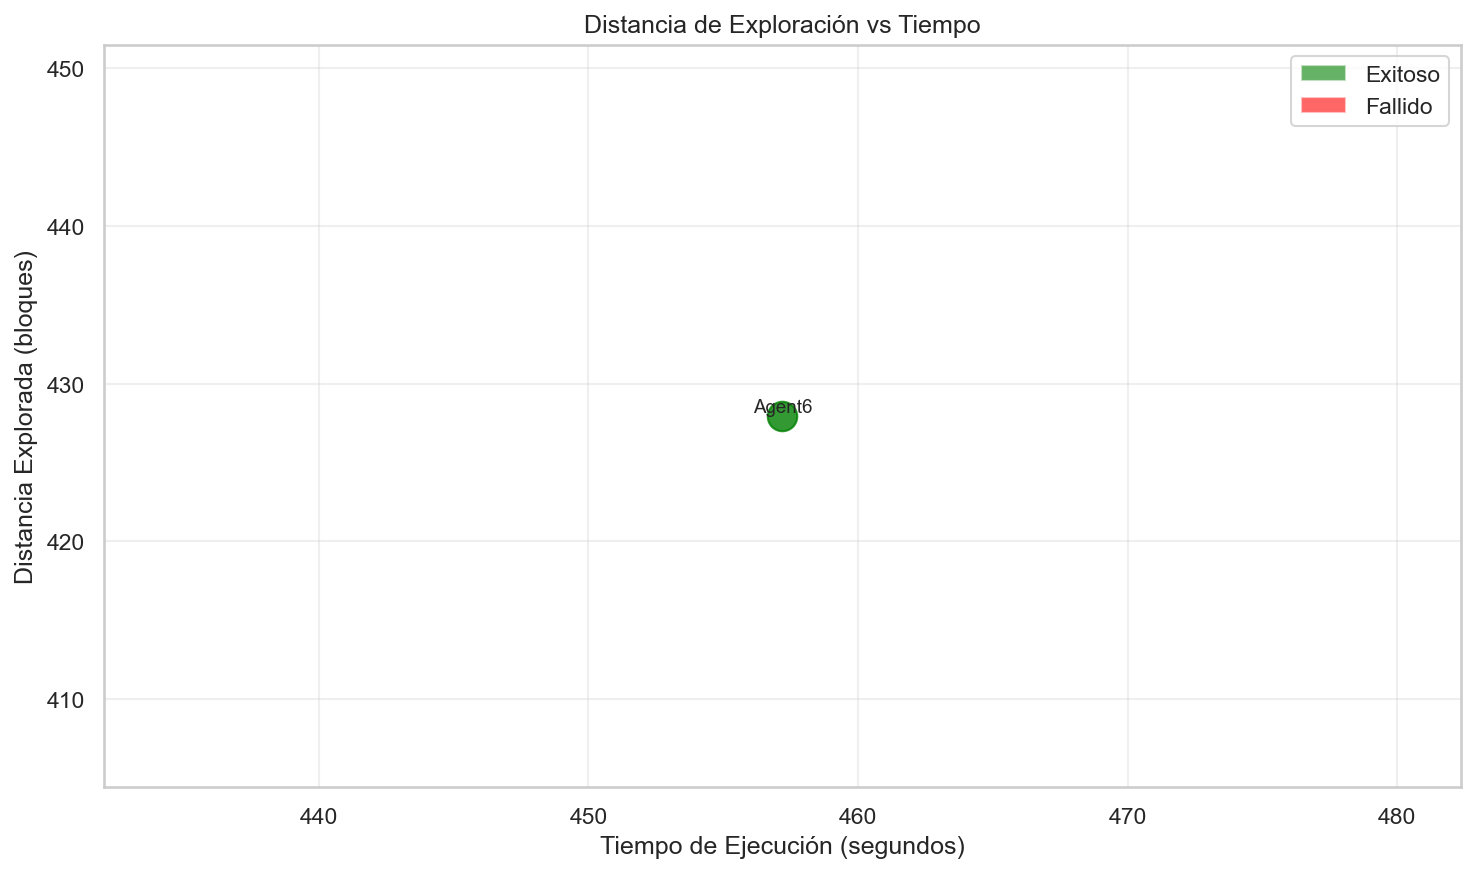
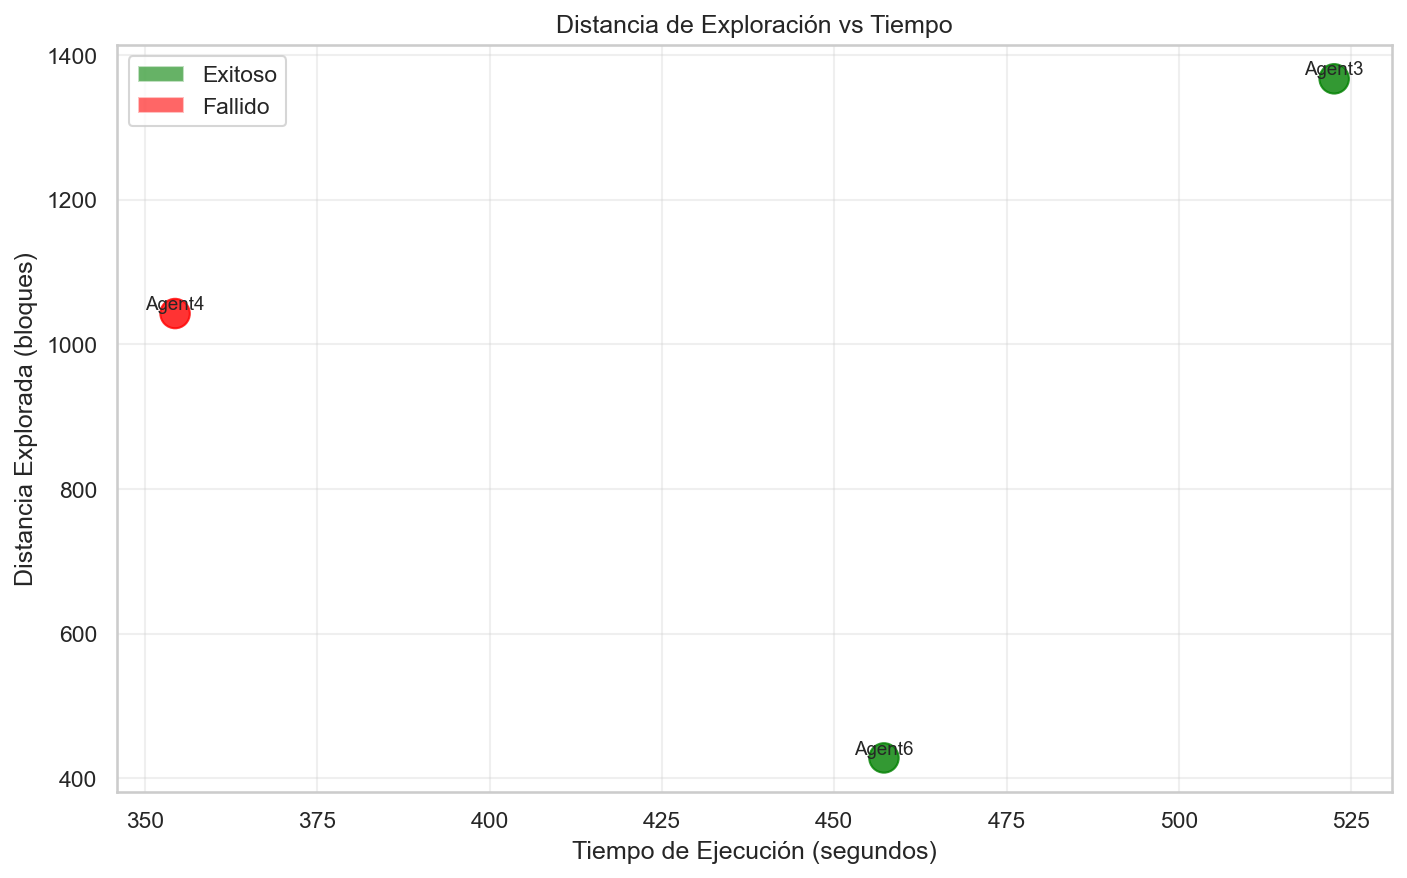
feat: implementacion de iconos personalizados en matplotlib

diff --git a/src/evaluation/htn_evaluation.py b/src/evaluation/htn_evaluation.py
@@ -3,13 +3,109 @@
 Script simple para analizar métricas de agentes HTN
 """
 
+'''
+Para los iconos y otros elementos de minecraft mirar: https://mcicons.ccleaf.com/
+'''
+
 import json
 import os
 from pathlib import Path
 import matplotlib.pyplot as plt
+from matplotlib.offsetbox import OffsetImage, AnnotationBbox  # Para imágenes en gráficas 
+import numpy as np  # Para arrays
+from PIL import Image  # Para redimensionar iconos
 import seaborn as sns
 from datetime import datetime
-import pandas as pd
+import os
+from matplotlib.patches import Patch
+
+# Variable global para cachear si los iconos están disponibles
+_icons_checked = False
+_icons_available = False
+_icon_cache = {}  # Cache de iconos ya cargados y optimizados
+
+def load_and_optimize_icon(icon_path, target_size=512):
+    """Carga una imagen PNG, la redimensiona si es muy grande, y la convierte a array numpy"""
+    try:
+        # Verificar si ya está en cache
+        if icon_path in _icon_cache:
+            return _icon_cache[icon_path]
+        
+        # Cargar imagen con PIL
+        img = Image.open(icon_path)
+        
+        # Si es muy grande, redimensionar manteniendo aspecto
+        if img.width > target_size or img.height > target_size:
+            img.thumbnail((target_size, target_size), Image.Resampling.LANCZOS)
+        
+        # Convertir a array numpy que matplotlib entiende
+        img_array = np.array(img)
+        
+        # Guardar en cache
+        _icon_cache[icon_path] = img_array
+        
+        return img_array
+    except Exception as e:
+        print(f"[ERROR] No se pudo cargar icono {icon_path}: {e}")
+        return None
+
+def setup_icons_dir(icons_dir='src/evaluation/icons/'):
+    """Configura el directorio de iconos y avisa al usuario si no existen"""
+    global _icons_checked, _icons_available
+    
+    if _icons_checked:
+        return _icons_available
+    
+    _icons_checked = True
+    icons_path = Path(icons_dir)
+    
+    if not icons_path.exists():
+        print(f"\n[AVISO] Directorio de iconos no encontrado: {icons_dir}")
+        print("Para descargar los iconos de Minecraft:")
+        print("  1. Visita: https://mcicons.ccleaf.com/")
+        print(f"  2. Descarga los iconos en: {icons_dir}/")
+        print("  3. Las gráficas funcionarán sin iconos pero con mejor aspecto con ellos\n")
+        return False
+    
+    # Verificar si hay algún PNG en el directorio
+    png_files = list(icons_path.glob('*.png'))
+    _icons_available = len(png_files) > 0
+    
+    if not _icons_available:
+        print(f"\n[AVISO] No se encontraron archivos PNG en {icons_dir}")
+        print("Las gráficas funcionarán sin iconos\n")
+    
+    return _icons_available
+
+def get_minecraft_icon(action_name, icons_dir='src/evaluation/icons/'):
+    """Mapea nombre de acción a archivo PNG de Minecraft y lo optimiza"""
+    mapping = {
+        "Madera": "Oak_Log.png",      # Tronco de roble
+        "Tablones": "Oak_Planks.png", # Tablones de roble
+        "Palos": "Stick.png",
+        "Asegurar Mesa": "Crafting_Table.png",  # Crafting table
+        "Pico Madera": "Wooden_Pickaxe.png",
+        "Piedra Total": "Cobblestone.png",  # Piedra/cobblestone
+        "Pico Piedra": "Stone_Pickaxe.png",
+        "Carbón": "Coal.png",
+        "Hierro": "Raw_Iron.png",
+        "Craftear Horno": "Furnace.png",  # Preview horno
+        "Colocar Horno": "Furnace.png",
+        "Lingote de Hierro": "Iron_Ingot.png",
+        "Pico de Hierro": "Iron_Pickaxe.png"
+    }
+    
+    if not _icons_available:
+        return None
+    
+    filename = mapping.get(action_name, "Cancel.png")  # Default
+    path = os.path.join(icons_dir, filename)
+    
+    if os.path.exists(path):
+        return load_and_optimize_icon(path, target_size=80)
+    return None
+
+
 
 # Configurar estilo de gráficas
 sns.set_theme(style="whitegrid")
@@ -56,76 +152,69 @@ def analyze_basic_stats(metrics):
     print(f"   Mínima: {min(distances):.2f} bloques")
     print(f"   Máxima: {max(distances):.2f} bloques")
 
-def plot_execution_times(metrics):
-    """Gráfica de tiempos de ejecución"""
-    fig, (ax1, ax2) = plt.subplots(1, 2, figsize=(14, 5))
-    
-    # Gráfica 1: Tiempo por agente
-    agents = [m['agent_name'] for m in metrics]
-    times = [m['time_elapsed_s'] for m in metrics]
-    colors = ['green' if m['success'] else 'red' for m in metrics]
-    
-    ax1.bar(agents, times, color=colors, alpha=0.7)
-    ax1.set_xlabel('Agente')
-    ax1.set_ylabel('Tiempo (segundos)')
-    ax1.set_title('Tiempo de Ejecución por Agente')
-    ax1.tick_params(axis='x', rotation=45)
-    
-    # Leyenda
-    from matplotlib.patches import Patch
-    legend_elements = [
-        Patch(facecolor='green', alpha=0.7, label='Exitoso'),
-        Patch(facecolor='red', alpha=0.7, label='Fallido')
-    ]
-    ax1.legend(handles=legend_elements)
-    
-    # Gráfica 2: Box plot de tiempos exitosos vs fallidos
-    success_times = [m['time_elapsed_s'] for m in metrics if m['success']]
-    fail_times = [m['time_elapsed_s'] for m in metrics if not m['success']]
-    
-    data_to_plot = []
-    labels = []
-    if success_times:
-        data_to_plot.append(success_times)
-        labels.append(f'Exitoso\n(n={len(success_times)})')
-    if fail_times:
-        data_to_plot.append(fail_times)
-        labels.append(f'Fallido\n(n={len(fail_times)})')
-    
-    if data_to_plot:
-        bp = ax2.boxplot(data_to_plot, labels=labels, patch_artist=True)
-        colors = ['lightgreen', 'lightcoral']
-        for patch, color in zip(bp['boxes'], colors[:len(bp['boxes'])]):
-            patch.set_facecolor(color)
-        ax2.set_ylabel('Tiempo (segundos)')
-        ax2.set_title('Distribución de Tiempos')
-    
-    plt.tight_layout()
-    return fig
-
 def plot_action_timeline(metrics):
-    """Timeline de acciones"""
-    fig, ax = plt.subplots(figsize=(14, 8))
+    fig, ax = plt.subplots(figsize=(15, 8)) 
+    max_time = 0
     
+    # Parámetros para el control de solapamiento
+    TIME_THRESHOLD = 15  # Segundos mínimos para considerar que hay solapamiento
+    OFFSET_VALUE = 0.25  # Cuánto se desplaza el icono verticalmente (0.25 de la unidad del eje Y)
+
     for idx, m in enumerate(metrics):
         agent = m['agent_name']
         start = datetime.fromisoformat(m['start_time'].replace('Z', '+00:00'))
         
+        # Guardamos los tiempos de las acciones ya colocadas para este agente
+        placed_times = []
+        
         for action in m['actions']:
             action_time = datetime.fromisoformat(action['timestamp'].replace('Z', '+00:00'))
             elapsed = (action_time - start).total_seconds()
-            ax.scatter(elapsed, idx, s=200, alpha=0.8)
-            ax.text(elapsed, idx, action['name'], fontsize=8, 
-                   rotation=45, ha='left', va='bottom')
+            max_time = max(max_time, elapsed)
+            
+            # --- Lógica Antisolapamiento ---
+            # Si hay alguna acción previa muy cerca, alternamos el offset
+            current_offset = 0
+            # Contamos cuántas acciones hay en el mismo rango de tiempo
+            nearby_actions = sum(1 for t in placed_times if abs(t - elapsed) < TIME_THRESHOLD)
+            
+            if nearby_actions > 0:
+                # Alterna: primera cerca arriba (+0.25), segunda cerca abajo (-0.25), tercera (+0.5)...
+                direction = 1 if nearby_actions % 2 != 0 else -1
+                current_offset = direction * OFFSET_VALUE * ((nearby_actions + 1) // 2)
+            
+            placed_times.append(elapsed)
+            # -------------------------------
+
+            img_array = get_minecraft_icon(action['name'])
+            y_pos = idx + current_offset # Aplicamos el desplazamiento vertical
+            
+            if img_array is not None:
+                try:
+                    # He bajado el zoom a 0.35 para que respiren mejor
+                    img = OffsetImage(img_array, zoom=0.35, alpha=1.0) 
+                    ab = AnnotationBbox(img, (elapsed, y_pos), frameon=False, pad=0)
+                    ax.add_artist(ab)
+                except Exception:
+                    ax.scatter(elapsed, y_pos, s=100, c='gray')
+            else:
+                ax.scatter(elapsed, y_pos, s=100, c='gray')
+
+    ax.set_xlim(-max_time * 0.05, max_time * 1.1) # Un poco más de margen a la derecha
+    ax.set_ylim(-1, len(metrics))
     
-    ax.set_xlabel('Tiempo desde inicio (segundos)')
-    ax.set_ylabel('Agente')
+    ax.set_xlabel('Tiempo (segundos)', fontsize=12)
+    ax.set_ylabel('Agentes', fontsize=12)
     ax.set_yticks(range(len(metrics)))
     ax.set_yticklabels([m['agent_name'] for m in metrics])
-    ax.set_title('Timeline de Acciones por Agente')
-    ax.grid(True, alpha=0.3)
     
+    # Añadimos líneas horizontales suaves para cada agente como referencia
+    for i in range(len(metrics)):
+        ax.axhline(i, color='gray', linestyle='-', alpha=0.1, zorder=0)
+
+    ax.grid(True, alpha=0.3, axis='x', linestyle='--')
     plt.tight_layout()
+    
     return fig
 
 def plot_exploration_distance(metrics):
@@ -150,18 +239,20 @@ def plot_exploration_distance(metrics):
     ax.grid(True, alpha=0.3)
     
     # Leyenda
-    from matplotlib.patches import Patch
     legend_elements = [
         Patch(facecolor='green', alpha=0.6, label='Exitoso'),
         Patch(facecolor='red', alpha=0.6, label='Fallido')
     ]
     ax.legend(handles=legend_elements)
     
-    plt.tight_layout()
+    fig.subplots_adjust(left=0.1, right=0.95, top=0.93, bottom=0.1)
     return fig
 
 def main():
     """Función principal"""
+    # Configurar iconos
+    setup_icons_dir()
+    
     # Ruta a las métricas
     metrics_dir = Path(__file__).parent.parent / "agents" / "metrics"
     
@@ -184,11 +275,6 @@ def main():
     output_dir.mkdir(exist_ok=True)
     
     print(f"\nGenerando gráficas...")
-    
-    # Gráfica 1: Tiempos de ejecución
-    fig1 = plot_execution_times(metrics)
-    fig1.savefig(output_dir / "execution_times.png", dpi=150, bbox_inches='tight')
-    print(f"   Guardada: /src/evaluation/plots/execution_times.png")
     
     # Gráfica 2: Timeline de acciones
     fig2 = plot_action_timeline(metrics)

diff --git a/docs/BITACORA.md b/docs/BITACORA.md
@@ -16,7 +16,7 @@
 - **Mindcraft**: Fork actualizado con agentes personalizados
 - **Mineways**: Exportación de mundos para análisis visual
 - **Kaggle**: Dataset de texturas de bloques para visión por computadora
-
+- **McIcons**: imagenes de minecraft (https://mcicons.ccleaf.com/)
 ## Algoritmos
 - [ ] RL
 - [ ] LLM
@@ -89,6 +89,12 @@ export function getBiomeName(bot) {
 Esta funcion puede ayudar al conseguir madera
 
 ---
+
+## 2 feb
+Adicion de iconos de minecraft a matplotlib
+
+---
+
 # DUDAS 
 
 # DUDAS RESUELTAS

diff --git a/docs/TODO.md b/docs/TODO.md
@@ -8,6 +8,7 @@
 - [x] Coger viewer de visión multiagente de LLM's
 - [x] Mejora de sistema de memorias
 - [x] Mejorar madera
+- [x] Cambiar iconos matplotlib
 
 ## En Progreso
 - [ ] Llegar hasta hierro end-to-end estable
